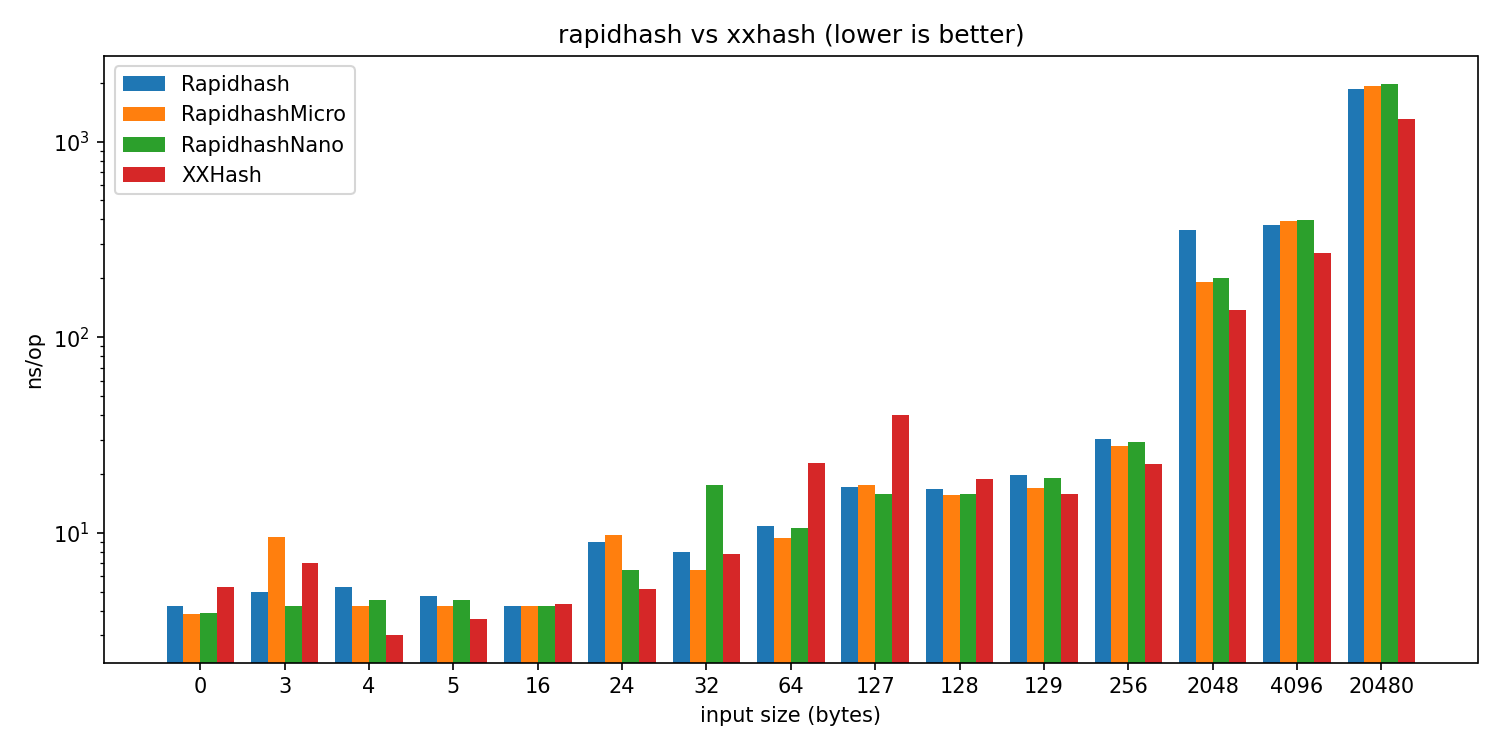
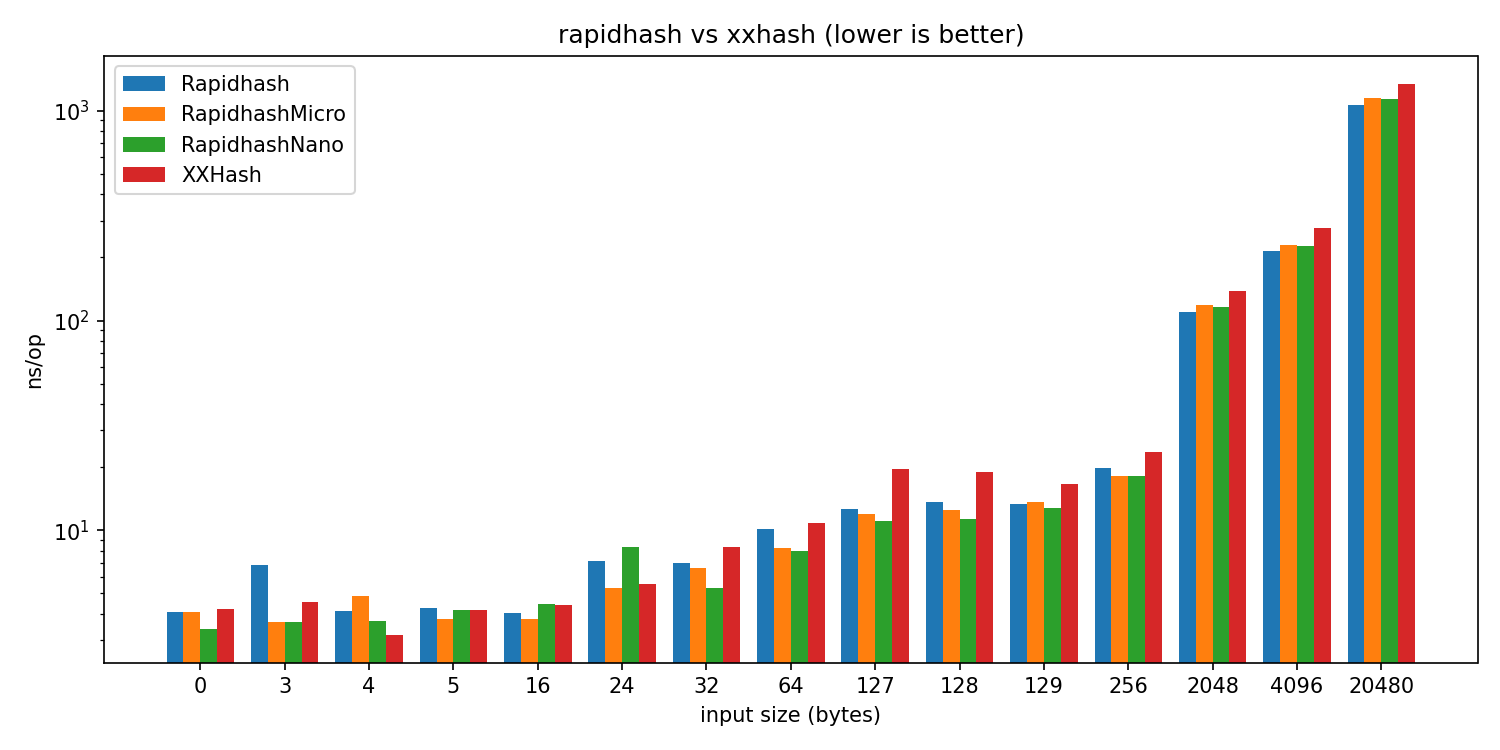
perf: improve performance

diff --git a/rapidhash.go b/rapidhash.go
@@ -25,13 +25,11 @@ func rapidhash_internal(data []byte, seed uint64, secret [8]uint64) uint64 {
 		if bufferlen >= 4 {
 			seed ^= bufferlen
 			if bufferlen >= 8 {
-				var datalast = data[bufferlen-8:]
 				a = read64(data)
-				b = read64(datalast)
+				b = read64(data[bufferlen-8:])
 			} else {
-				var datalast = data[bufferlen-4:]
 				a = read32(data)
-				b = read32(datalast)
+				b = read32(data[bufferlen-4:])
 			}
 		} else {
 			if bufferlen > 0 {
@@ -50,6 +48,7 @@ func rapidhash_internal(data []byte, seed uint64, secret [8]uint64) uint64 {
 		// unrolled loop
 		if i > 224 {
 			for i > 224 {
+				_ = p[223] // bounds-check elimination hint: p has >= 224 bytes
 				seed = rapid_mix(read64(p)^secret[0], read64(p[8:])^seed)
 				see1 = rapid_mix(read64(p[16:])^secret[1], read64(p[24:])^see1)
 				see2 = rapid_mix(read64(p[32:])^secret[2], read64(p[40:])^see2)
@@ -70,6 +69,7 @@ func rapidhash_internal(data []byte, seed uint64, secret [8]uint64) uint64 {
 		}
 
 		if i > 112 {
+			_ = p[111] // bounds-check elimination hint: p has >= 112 bytes
 			seed = rapid_mix(read64(p)^secret[0], read64(p[8:])^seed)
 			see1 = rapid_mix(read64(p[16:])^secret[1], read64(p[24:])^see1)
 			see2 = rapid_mix(read64(p[32:])^secret[2], read64(p[40:])^see2)
@@ -106,12 +106,13 @@ func rapidhash_internal(data []byte, seed uint64, secret [8]uint64) uint64 {
 				}
 			}
 		}
-		a = read64(data[bufferlen-((uint64)(len(p)))+i-16:]) ^ i
-		b = read64(data[bufferlen-((uint64)(len(p)))+i-8:])
+		a = read64(data[bufferlen-16:]) ^ i
+		b = read64(data[bufferlen-8:])
 	}
 	a ^= secret[1]
 	b ^= seed
-	rapid_mum(&a, &b)
+	hi, lo := rapid_mum(a, b)
+	a, b = lo, hi
 	return rapid_mix(a^secret[7], b^secret[1]^i)
 }
 
@@ -134,13 +135,11 @@ func rapidhash_micro_internal(data []byte, seed uint64, secret [8]uint64) uint64
 		if bufferlen >= 4 {
 			seed ^= bufferlen
 			if bufferlen >= 8 {
-				var datalast = data[bufferlen-8:]
 				a = read64(data)
-				b = read64(datalast)
+				b = read64(data[bufferlen-8:])
 			} else {
-				var datalast = data[bufferlen-4:]
 				a = read32(data)
-				b = read32(datalast)
+				b = read32(data[bufferlen-4:])
 			}
 		} else {
 			if bufferlen > 0 {
@@ -155,6 +154,7 @@ func rapidhash_micro_internal(data []byte, seed uint64, secret [8]uint64) uint64
 		if i > 80 {
 			var see1, see2, see3, see4 = seed, seed, seed, seed
 			for i > 80 {
+				_ = p[79] // bounds-check elimination hint: p has >= 80 bytes
 				seed = rapid_mix(read64(p)^secret[0], read64(p[8:])^seed)
 				see1 = rapid_mix(read64(p[16:])^secret[1], read64(p[24:])^see1)
 				see2 = rapid_mix(read64(p[32:])^secret[2], read64(p[40:])^see2)
@@ -180,12 +180,13 @@ func rapidhash_micro_internal(data []byte, seed uint64, secret [8]uint64) uint64
 				}
 			}
 		}
-		a = read64(data[bufferlen-((uint64)(len(p)))+i-16:]) ^ i
-		b = read64(data[bufferlen-((uint64)(len(p)))+i-8:])
+		a = read64(data[bufferlen-16:]) ^ i
+		b = read64(data[bufferlen-8:])
 	}
 	a ^= secret[1]
 	b ^= seed
-	rapid_mum(&a, &b)
+	hi, lo := rapid_mum(a, b)
+	a, b = lo, hi
 	return rapid_mix(a^secret[7], b^secret[1]^i)
 }
 
@@ -208,13 +209,11 @@ func rapidhash_nano_internal(data []byte, seed uint64, secret [8]uint64) uint64 
 		if bufferlen >= 4 {
 			seed ^= bufferlen
 			if bufferlen >= 8 {
-				var datalast = data[bufferlen-8:]
 				a = read64(data)
-				b = read64(datalast)
+				b = read64(data[bufferlen-8:])
 			} else {
-				var datalast = data[bufferlen-4:]
 				a = read32(data)
-				b = read32(datalast)
+				b = read32(data[bufferlen-4:])
 			}
 		} else {
 			if bufferlen > 0 {
@@ -229,6 +228,7 @@ func rapidhash_nano_internal(data []byte, seed uint64, secret [8]uint64) uint64 
 		if i > 48 {
 			var see1, see2 = seed, seed
 			for i > 48 {
+				_ = p[47] // bounds-check elimination hint: p has >= 48 bytes
 				seed = rapid_mix(read64(p)^secret[0], read64(p[8:])^seed)
 				see1 = rapid_mix(read64(p[16:])^secret[1], read64(p[24:])^see1)
 				see2 = rapid_mix(read64(p[32:])^secret[2], read64(p[40:])^see2)
@@ -244,12 +244,13 @@ func rapidhash_nano_internal(data []byte, seed uint64, secret [8]uint64) uint64 
 				seed = rapid_mix(read64(p[16:])^secret[2], read64(p[24:])^seed)
 			}
 		}
-		a = read64(data[bufferlen-((uint64)(len(p)))+i-16:]) ^ i
-		b = read64(data[bufferlen-((uint64)(len(p)))+i-8:])
+		a = read64(data[bufferlen-16:]) ^ i
+		b = read64(data[bufferlen-8:])
 	}
 	a ^= secret[1]
 	b ^= seed
-	rapid_mum(&a, &b)
+	hi, lo := rapid_mum(a, b)
+	a, b = lo, hi
 	return rapid_mix(a^secret[7], b^secret[1]^i)
 }
 
@@ -274,8 +275,8 @@ type Digest struct {
 	see6     uint64
 }
 
-const chunkSize = 112 // The size of a single rapidhash processing chunk.
-const chunkPrev = 16  // The minimum tail we must keep in the buffer for processing.
+const chunkSize = 112 // The size of a single rapidhash processing chunk
+const chunkPrev = 16  // The minimum tail we must keep in the buffer for processing
 
 func New() *Digest {
 	d := Digest{}
@@ -295,7 +296,7 @@ func (d *Digest) Reset() {
 
 /*
  *  Resets the internal state of the hasher to a new seed, equivalent to
- *  reinitializing a new hasher with the given seed.
+ *  reinitializing a new hasher with the given seed
  */
 func (d *Digest) ResetWithSeed(seed uint64) {
 	d.buffered = 0
@@ -334,13 +335,13 @@ func (d *Digest) Write(data []byte) (n int, err error) {
 func (d *Digest) writeInner(data []byte) {
 	chunkBuffer := d.buffer[chunkPrev:]
 
-	// Fill the current chunk up to 112 bytes and process it.
+	// Fill the current chunk up to 112 bytes and process it
 	copyBytes := chunkSize - d.buffered
 	copy(chunkBuffer[d.buffered:chunkSize], data[:copyBytes])
 	d.processChunk(chunkBuffer)
 	d.buffered = 0
 
-	// Process chunks without copying, keeping the last chunk back.
+	// Process chunks without copying, keeping the last chunk back
 	remaining := data[copyBytes:]
 	stop := (len(remaining) - 1) / chunkSize * chunkSize
 	var lastChunk []byte
@@ -351,14 +352,14 @@ func (d *Digest) writeInner(data []byte) {
 		pos += chunkSize
 	}
 
-	// Copy the final 16 data bytes from the previous chunk into chunkPrev.
+	// Copy the final 16 data bytes from the previous chunk into chunkPrev
 	if lastChunk != nil {
 		copy(d.buffer[:chunkPrev], lastChunk[chunkSize-chunkPrev:])
 	} else {
 		copy(d.buffer[:chunkPrev], chunkBuffer[chunkSize-chunkPrev:])
 	}
 
-	// Copy the remainder into the chunk part of the buffer.
+	// Copy the remainder into the chunk part of the buffer
 	unprocessed := remaining[pos:]
 	copy(chunkBuffer[:len(unprocessed)], unprocessed)
 	d.buffered = len(unprocessed)
@@ -378,13 +379,14 @@ func (d *Digest) Size() int {
 	return 8
 }
 
-// Returns the internal buffer block size in bytes, implementing the hash.Hash interface. We process data in 112-byte chunks.
+// Returns the internal buffer block size in bytes, implementing the hash.Hash interface. We process data in 112-byte chunks
 func (d *Digest) BlockSize() int {
 	return 112
 }
 
 func (d *Digest) processChunk(p []byte) {
 	seed := d.seed
+	_ = p[111] // bounds-check elimination hint: p has == 112 bytes
 	d.seed = rapid_mix(read64(p)^rapid_secret[0], read64(p[8:])^seed)
 	d.see1 = rapid_mix(read64(p[16:])^rapid_secret[1], read64(p[24:])^d.see1)
 	d.see2 = rapid_mix(read64(p[32:])^rapid_secret[2], read64(p[40:])^d.see2)
@@ -405,18 +407,16 @@ func (d *Digest) finish() uint64 {
 	var a, b uint64
 
 	if d.chunks == 0 && bufferlen <= 16 {
-		// Short <=16 pass only if we haven't processed a full chunk yet.
+		// Short <=16 pass only if we haven't processed a full chunk yet
 		data := d.buffer[chunkPrev : chunkPrev+int(bufferlen)]
 		if bufferlen >= 4 {
 			seed ^= bufferlen
 			if bufferlen >= 8 {
-				var datalast = data[bufferlen-8:]
 				a = read64(data)
-				b = read64(datalast)
+				b = read64(data[bufferlen-8:])
 			} else {
-				var datalast = data[bufferlen-4:]
 				a = read32(data)
-				b = read32(datalast)
+				b = read32(data[bufferlen-4:])
 			}
 		} else if bufferlen > 0 {
 			a = (((uint64)(data[0])) << 45) | ((uint64)(data[bufferlen-1]))
@@ -424,11 +424,11 @@ func (d *Digest) finish() uint64 {
 		}
 	} else {
 		if d.chunks > 0 {
-			// Merge independent lanes if we'd previously processed a full chunk.
+			// Merge independent lanes if we'd previously processed a full chunk
 			seed = d.seed ^ d.see1 ^ d.see2 ^ d.see3 ^ d.see4 ^ d.see5 ^ d.see6
 		}
 
-		// The >16 tail is the same whether we've processed a full chunk or not.
+		// The >16 tail is the same whether we've processed a full chunk or not
 		slice := d.buffer[chunkPrev : chunkPrev+int(bufferlen)]
 		if bufferlen > 16 {
 			seed = rapid_mix(read64(slice)^rapid_secret[2], read64(slice[8:])^seed)
@@ -449,13 +449,14 @@ func (d *Digest) finish() uint64 {
 			}
 		}
 
-		// The final 16 bytes may read from the chunkPrev part of the buffer.
+		// The final 16 bytes may read from the chunkPrev part of the buffer
 		data := d.buffer[:chunkPrev+int(bufferlen)]
 		a = read64(data[len(data)-16:]) ^ bufferlen
 		b = read64(data[len(data)-8:])
 	}
 	a ^= rapid_secret[1]
 	b ^= seed
-	rapid_mum(&a, &b)
+	hi, lo := rapid_mum(a, b)
+	a, b = lo, hi
 	return rapid_mix(a^rapid_secret[7], b^rapid_secret[1]^bufferlen)
 }

diff --git a/rapidhash_primitives.go b/rapidhash_primitives.go
@@ -8,27 +8,15 @@ import (
 /*
 64*64 -> 128bit multiply function.
 
-Calculates 128-bit C = *A * *B.
+Calculates 128-bit C = A * B, returning the high and low 64-bit halves.
 */
-func rapid_mum(A *uint64, B *uint64) {
-	hi, lo := bits.Mul64(*A, *B)
-	*A = lo
-	*B = hi
+func rapid_mum(a, b uint64) (hi, lo uint64) {
+	return bits.Mul64(a, b)
 }
 
-func rapid_mum_protected(A *uint64, B *uint64) {
-	hi, lo := bits.Mul64(*A, *B)
-	*A ^= lo
-	*B ^= hi
-}
-
-func rapid_mix(A, B uint64) uint64 {
-	if protected {
-		rapid_mum_protected(&A, &B)
-	} else {
-		rapid_mum(&A, &B)
-	}
-	return A ^ B
+func rapid_mum_protected(a, b uint64) (hi, lo uint64) {
+	hi, lo = bits.Mul64(a, b)
+	return hi ^ a, lo ^ b
 }
 
 func read64(data []byte) uint64 {

diff --git a/config_protected.go b/config_protected.go
@@ -9,3 +9,9 @@ package rapidhash
  *  protected = true: extra protection against entropy loss.
  */
 const protected = true
+
+//go:nosplit
+func rapid_mix(a, b uint64) uint64 {
+	hi, lo := rapid_mum_protected(a, b)
+	return lo ^ hi
+}

diff --git a/config_fast.go b/config_fast.go
@@ -17,3 +17,9 @@ package rapidhash
  *  protected = false (default): "fast" mode, max speed.
  */
 const protected = false
+
+//go:nosplit
+func rapid_mix(a, b uint64) uint64 {
+	hi, lo := rapid_mum(a, b)
+	return lo ^ hi
+}

diff --git a/README.md b/README.md
@@ -45,24 +45,24 @@ Comparison against [xxhash](https://github.com/cespare/xxhash) on AMD Ryzen 5 46
 
 | input size (B) | rapidhash | rapidhash Micro | rapidhash Nano | xxhash |
 |---------------:|----------:|----------------:|---------------:|-------:|
-| 0              | 3.86      | 3.91            | 3.88           | 3.02   |
-| 16             | 4.94      | 4.42            | 4.69           | 5.15   |
-| 32             | 7.63      | 6.71            | 6.53           | 8.35   |
-| 64             | 16.38     | 10.17           | 10.68          | 10.23  |
-| 128            | 18.19     | 15.92           | 15.84          | 21.07  |
-| 256            | 28.64     | 28.86           | 29.66          | 23.05  |
-| 2048           | 352.70    | 191.30          | 200.50         | 137.00 |
-| 4096           | 375.40    | 392.30          | 397.10         | 269.30 |
-| 20480          | 1848.00   | 1922.00         | 1978.00        | 1309.00 |
+| 0              | 4.09      | 4.05            | 3.37           | 4.23   |
+| 16             | 4.04      | 3.76            | 4.46           | 4.41   |
+| 32             | 7.00      | 6.62            | 5.29           | 8.30   |
+| 64             | 10.15     | 8.23            | 8.00           | 10.82  |
+| 128            | 13.64     | 12.47           | 11.36          | 19.01  |
+| 256            | 19.80     | 18.22           | 18.24          | 23.70  |
+| 2048           | 110.00    | 118.50          | 116.50         | 137.70 |
+| 4096           | 214.60    | 228.90          | 227.60         | 276.40 |
+| 20480          | 1064.00   | 1146.00         | 1134.00        | 1350.00 |
 
 Throughput chart, generated by [benchmarks/plot.py](benchmarks/plot.py):
 
 ![benchmark results](benchmarks/benchmark.png)
 
-To reproduce:
+To reproduce (results are also saved to [benchmarks/results_latest.txt](benchmarks/results_latest.txt), keeping the raw `go test -bench` output so exact numbers can be compared between runs):
 ```
 cd benchmarks
-go test -run=NONE -bench=. -benchtime=100000x . | python3 plot.py
+go test -run=NONE -bench=. -benchtime=100000x -count=3 . | tee results_latest.txt | python3 plot.py
 ```
 
 ## Equivalence to C++ implementation

diff --git a/notes.md b/notes.md
@@ -22,3 +22,22 @@ if bufferlen > 0 {
 5. One probably can mess with branching and more of loop unrolling, but I implemented only the ones in original implementation for completeness. Could be removed using AI quickly.
 
 6. Tests should have tested longer inputs and across boundaries, that would have prevented some bugs that were present.
+
+7. I used to have this:
+```go
+func rapid_mum(A *uint64, B *uint64) {
+	hi, lo := bits.Mul64(*A, *B)
+	*A = lo
+	*B = hi
+}
+```
+
+Changing to values, which fascilitates register use since it is pure computation and there is no memory side effects required. There is no guarantee or official mechanism. Running benchmark confirmed 15-30% improvement and assembly has no memory access in new version. Go compiler suppose to automatically recognize when pointer points to local stack variables and change it, but didn't for some reason.
+
+```go
+func rapid_mum(a, b uint64) (hi, lo uint64) {
+	return bits.Mul64(a, b)
+}
+```
+
+8. Every slice access incured bounds check cost. Even in manually unrolled loops, compiler was not smart enough to determine this due to indirect indexing. Adding manual BCE hints (_ = buffer[idx] ) help improve performance on bigger inputs by around 40%. Other implementations use some kind of unsafe pointer access, however, I would like to keep code readable and safe.
